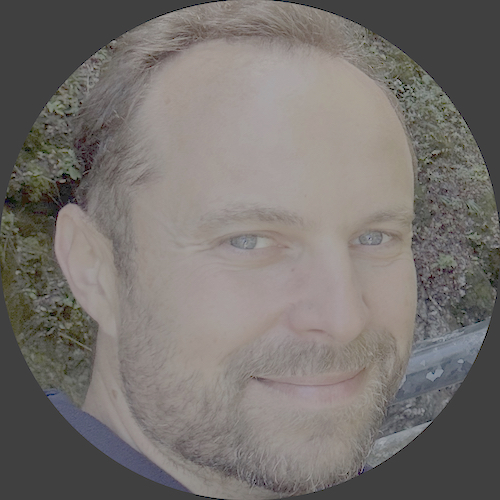
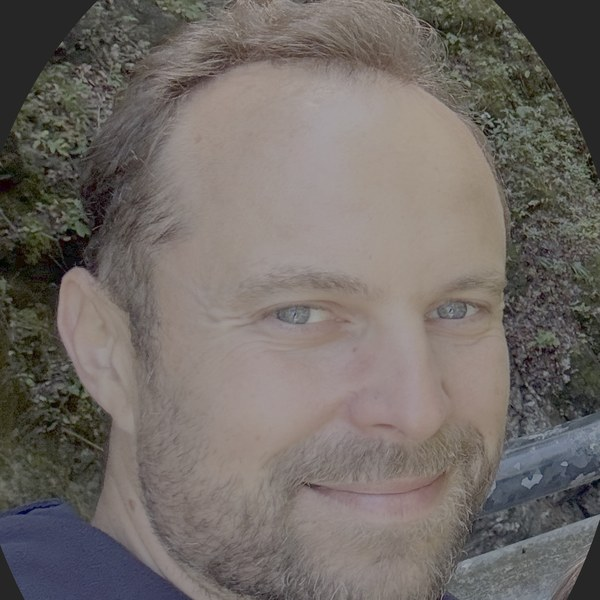
r

diff --git a/style.css b/style.css
@@ -41,13 +41,33 @@ footer a{margin-right:14px}
 main{overflow-wrap:anywhere}
 :root[data-lang=de] main p,:root[data-lang=de] main li{hyphens:auto}
 main h1,main h2,main h3,main strong,main b,main .about p,main .card p{hyphens:manual}
+.menu{display:contents}
+.burger{display:none;width:48px;height:48px;padding:0;border:1px solid var(--line);border-radius:12px;background:var(--card);color:var(--fg);flex-direction:column;justify-content:center;align-items:center;gap:5px;cursor:pointer}
+.burger i{display:block;width:22px;height:2.5px;background:currentColor;border-radius:2px;transition:transform .2s,opacity .2s}
+header.open .burger i:nth-of-type(1){transform:translateY(7.5px) rotate(45deg)}
+header.open .burger i:nth-of-type(2){opacity:0}
+header.open .burger i:nth-of-type(3){transform:translateY(-7.5px) rotate(-45deg)}
+.sr{position:absolute;width:1px;height:1px;overflow:hidden;clip:rect(0 0 0 0);white-space:nowrap}
+/* Kopfzeile bleibt beim Scrollen oben; Marke mit mehr Präsenz */
+html{scroll-padding-top:104px}
+header{position:sticky;top:0;z-index:100;background:var(--bg)}
+header.open{max-height:100vh;max-height:100dvh;overflow-y:auto}
+header .brand{font-size:28px;gap:14px}
+header .brand img{width:52px;height:52px}
+@media (min-width:701px){header .wrap{min-height:88px}}
+@media (max-width:700px){html{scroll-padding-top:80px}}
 @media (max-width:700px){
-header .wrap{gap:0 12px;padding-top:4px;padding-bottom:4px}
-.brand{min-height:44px}
-nav a{display:inline-flex;align-items:center;min-height:44px;margin-right:0;padding:0 8px}
-.lang a{display:inline-flex;align-items:center;justify-content:center;min-height:44px;min-width:44px;padding:0 12px}
+header .wrap{flex-wrap:wrap;gap:0;padding-top:8px;padding-bottom:8px}
+header .brand{font-size:26px;gap:12px;margin-right:auto;min-height:52px}
+header .brand img{width:52px;height:52px}
+.burger{display:flex}
+.menu{display:none;flex:0 0 calc(100% + 40px);margin:8px -20px -8px;padding:4px 20px 16px;background:var(--card);border-top:1px solid var(--line)}
+header.open .menu{display:block}
+.menu nav{display:block}
+.menu nav a{display:flex;align-items:center;min-height:52px;margin:0;padding:0;font-size:19px;border-bottom:1px solid var(--line)}
+.menu .lang{display:flex;gap:6px;margin:14px 0 0}
+.menu .lang a{display:inline-flex;align-items:center;justify-content:center;min-height:48px;min-width:52px;padding:0 14px;font-size:17px}
 footer a{display:inline-block;padding:12px 4px;margin-right:12px}
-.lang{margin-left:auto}
 .about{gap:14px}
 main{padding-top:20px}
 main br.mbr{display:inline}

diff --git a/index.html b/index.html
@@ -11,13 +11,17 @@
 <link rel="manifest" href="site.webmanifest?v=3">
 <meta name="theme-color" content="#1637E8">
 <link rel="stylesheet" href="style.css">
+<noscript><style>@media (max-width:700px){.burger{display:none!important}.menu{display:block!important}}</style></noscript>
 </head>
 <body data-title-de="Dmitry Korotkiy – IT, Software & Digital Media" data-title-en="Dmitry Korotkiy – IT, Software & Digital Media" data-title-ru="Dmitry Korotkiy – IT, Software & Digital Media">
 <header><div class="wrap">
 <a class="brand" data-i="index.html" href="index.html"><img src="logo-adaptiv.svg?v=3" alt="" width="34" height="34">DK-AI</a>
+<button class="burger" type="button" aria-expanded="false" aria-controls="menu"><span class="sr de" lang="de">Menü</span><span class="sr en" lang="en">Menu</span><span class="sr ru" lang="ru">Меню</span><i></i><i></i><i></i></button>
+<div class="menu" id="menu">
 <nav><a data-i="index.html#leistungen" href="index.html#leistungen"><span class="de" lang="de">Leistungen</span><span class="en" lang="en">Services</span><span class="ru" lang="ru">Услуги</span></a>
 <a data-i="index.html#kontakt" href="index.html#kontakt"><span class="de" lang="de">Kontakt</span><span class="en" lang="en">Contact</span><span class="ru" lang="ru">Контакты</span></a></nav>
 <div class="lang" aria-label="Language"><a href="?lang=de" data-l="de" hreflang="de">DE</a><a href="?lang=en" data-l="en" hreflang="en">EN</a><a href="?lang=ru" data-l="ru" hreflang="ru">RU</a></div>
+</div>
 </div></header>
 <main><div class="wrap">
 <picture><source media="(max-width:520px)" srcset="banner-mobile.jpg"><img class="banner" src="banner.jpg" alt="" width="2000" height="556"></picture>

diff --git a/datenschutz.html b/datenschutz.html
@@ -11,13 +11,17 @@
 <link rel="manifest" href="site.webmanifest?v=3">
 <meta name="theme-color" content="#1637E8">
 <link rel="stylesheet" href="style.css">
+<noscript><style>@media (max-width:700px){.burger{display:none!important}.menu{display:block!important}}</style></noscript>
 </head>
 <body data-title-de="Datenschutzerklärung" data-title-en="Privacy policy" data-title-ru="Политика конфиденциальности">
 <header><div class="wrap">
 <a class="brand" data-i="index.html" href="index.html"><img src="logo-adaptiv.svg?v=3" alt="" width="34" height="34">DK-AI</a>
+<button class="burger" type="button" aria-expanded="false" aria-controls="menu"><span class="sr de" lang="de">Menü</span><span class="sr en" lang="en">Menu</span><span class="sr ru" lang="ru">Меню</span><i></i><i></i><i></i></button>
+<div class="menu" id="menu">
 <nav><a data-i="index.html#leistungen" href="index.html#leistungen"><span class="de" lang="de">Leistungen</span><span class="en" lang="en">Services</span><span class="ru" lang="ru">Услуги</span></a>
 <a data-i="index.html#kontakt" href="index.html#kontakt"><span class="de" lang="de">Kontakt</span><span class="en" lang="en">Contact</span><span class="ru" lang="ru">Контакты</span></a></nav>
 <div class="lang" aria-label="Language"><a href="?lang=de" data-l="de" hreflang="de">DE</a><a href="?lang=en" data-l="en" hreflang="en">EN</a><a href="?lang=ru" data-l="ru" hreflang="ru">RU</a></div>
+</div>
 </div></header>
 <main><div class="wrap">
 <div class="de" lang="de"><h1>Datenschutzerklärung</h1>

diff --git a/impressum.html b/impressum.html
@@ -11,13 +11,17 @@
 <link rel="manifest" href="site.webmanifest?v=3">
 <meta name="theme-color" content="#1637E8">
 <link rel="stylesheet" href="style.css">
+<noscript><style>@media (max-width:700px){.burger{display:none!important}.menu{display:block!important}}</style></noscript>
 </head>
 <body data-title-de="Impressum" data-title-en="Legal notice" data-title-ru="Выходные данные (Impressum)">
 <header><div class="wrap">
 <a class="brand" data-i="index.html" href="index.html"><img src="logo-adaptiv.svg?v=3" alt="" width="34" height="34">DK-AI</a>
+<button class="burger" type="button" aria-expanded="false" aria-controls="menu"><span class="sr de" lang="de">Menü</span><span class="sr en" lang="en">Menu</span><span class="sr ru" lang="ru">Меню</span><i></i><i></i><i></i></button>
+<div class="menu" id="menu">
 <nav><a data-i="index.html#leistungen" href="index.html#leistungen"><span class="de" lang="de">Leistungen</span><span class="en" lang="en">Services</span><span class="ru" lang="ru">Услуги</span></a>
 <a data-i="index.html#kontakt" href="index.html#kontakt"><span class="de" lang="de">Kontakt</span><span class="en" lang="en">Contact</span><span class="ru" lang="ru">Контакты</span></a></nav>
 <div class="lang" aria-label="Language"><a href="?lang=de" data-l="de" hreflang="de">DE</a><a href="?lang=en" data-l="en" hreflang="en">EN</a><a href="?lang=ru" data-l="ru" hreflang="ru">RU</a></div>
+</div>
 </div></header>
 <main><div class="wrap">
 <div class="de" lang="de"><h1>Impressum</h1>

diff --git a/site.js b/site.js
@@ -20,3 +20,10 @@ var b=document.querySelectorAll('.lang a');
 for(var i=0;i<b.length;i++){b[i].addEventListener('click',function(e){e.preventDefault();var l=this.getAttribute('data-l');set(l);
  try{history.replaceState(null,'',location.pathname+'?lang='+l);}catch(x){}});}
 })();
+(function(){
+var h=document.querySelector('header'),b=document.querySelector('.burger');if(!h||!b)return;
+function set(o){h.classList.toggle('open',o);b.setAttribute('aria-expanded',o?'true':'false');}
+b.addEventListener('click',function(){set(!h.classList.contains('open'));});
+document.addEventListener('keydown',function(e){if(e.key==='Escape')set(false);});
+var l=h.querySelectorAll('.menu a');for(var i=0;i<l.length;i++)l[i].addEventListener('click',function(){set(false);});
+})();
